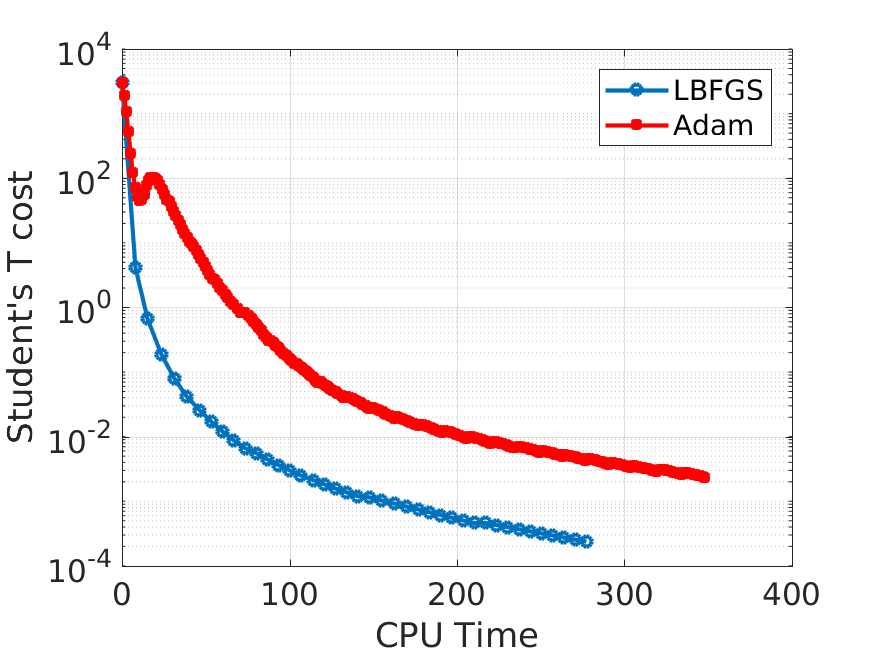
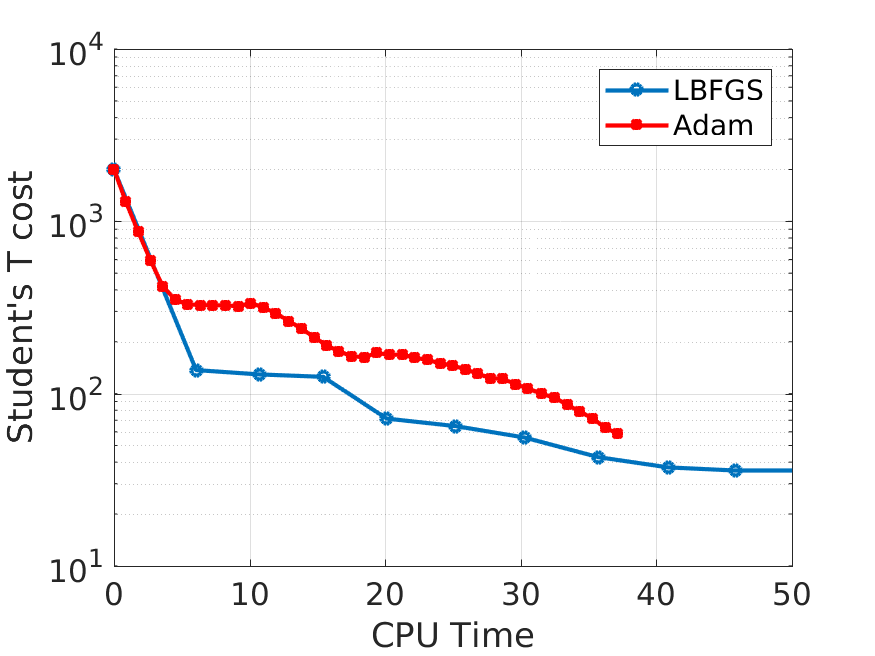
update fig

diff --git a/README.md b/README.md
@@ -11,4 +11,4 @@ Files included are:
 
 <img src="time.png" alt="reduction of calibration cost" width="700"/>
 
-Here is an image showing the reduction of calibration error (Student's T loss) with iteration for LBFGS and Adam. Adam runs faster but slower to converge. LBFGS uses 4 epochs and Adam uses 24 epochs in the image. The minibatch size is 1/10-th of the full dataset.
+Here is an image showing the reduction of calibration error (Student's T loss) with iteration for LBFGS and Adam. Adam runs faster but slower to converge. LBFGS uses 1 epoch and Adam uses 4 epochs in the image. The minibatch size is 1/10-th of the full dataset.
